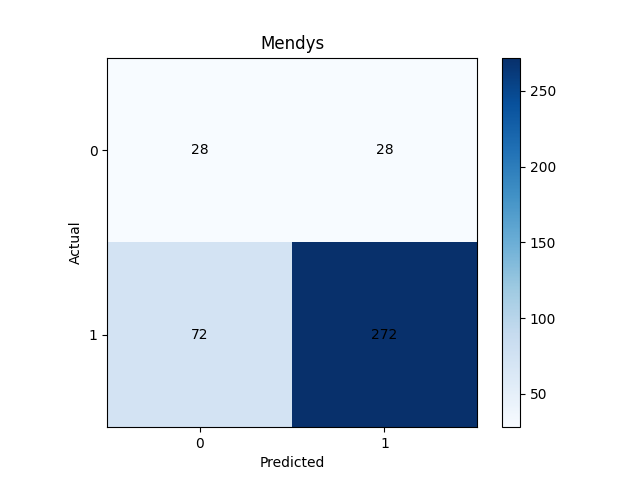
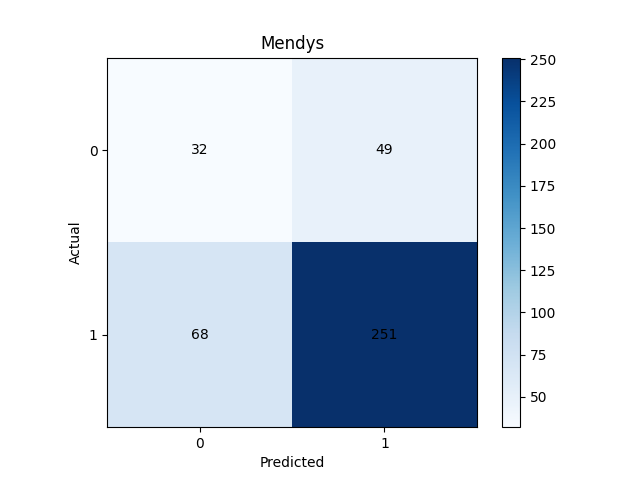
Casi finalizado

diff --git a/tnn_parte3_clasificacion.py b/tnn_parte3_clasificacion.py
@@ -51,7 +51,7 @@ def train_model():
     min_val_per_epoch = 0.0
     epoch = 0
     
-    for epoch in range(50):
+    for epoch in range(1000):
         print((epoch+1), end=",")
         print("train", end=",")
         prom_loss_train = 0
